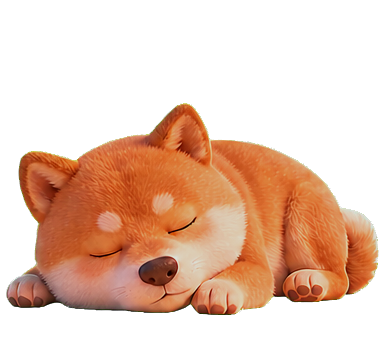
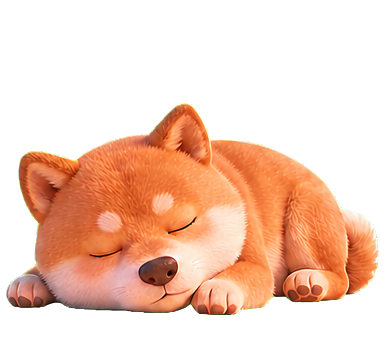
feat: pink hover outline, home window drag, restore sleep brightness
- Hover outline pink (#f28fb1)
- Home scene window: drag empty areas to reposition
- Sleep frames restored to pre-bake brightness (original colors)

diff --git a/petpet/home/window.py b/petpet/home/window.py
@@ -128,6 +128,7 @@ class HomeSceneWindow(QWidget):
         self._hover_button_prev = None
         self._pressed_button = None
         self._button_flash_until = 0.0
+        self._window_drag_offset = None
         self._last_pet_tick = time.monotonic()
         self._last_persisted_home_target = None
         self.setMouseTracking(True)
@@ -858,7 +859,7 @@ class HomeSceneWindow(QWidget):
             painter.setBrush(QColor(120, 72, 50, 120))
             painter.drawRoundedRect(draw_rect, 14, 14)
         elif state == "hover":
-            painter.setPen(QPen(QColor("#5f3a2a"), 2))
+            painter.setPen(QPen(QColor("#f28fb1"), 2))
             painter.setBrush(QColor(255, 252, 246, 90))
             painter.drawRoundedRect(draw_rect.adjusted(1, 1, -1, -1), 14, 14)
         if label:
@@ -2177,6 +2178,10 @@ class HomeSceneWindow(QWidget):
         if not self.is_decorating():
             if self.command_home_pet(event.pos()):
                 event.accept()
+                return
+            # 空白处按住可拖动整个小屋窗口
+            self._window_drag_offset = event.globalPos() - self.frameGeometry().topLeft()
+            event.accept()
             return
         if not self.begin_furniture_gesture(event.pos()):
             event.accept()
@@ -2189,6 +2194,9 @@ class HomeSceneWindow(QWidget):
         if key != self._hover_button:
             self._hover_button = key
             self.update()
+        if self._window_drag_offset is not None:
+            self.move(event.globalPos() - self._window_drag_offset)
+            return
         if self._editing_gesture is None:
             return
         self.update_furniture_gesture(event.pos())
@@ -2200,6 +2208,10 @@ class HomeSceneWindow(QWidget):
         super().leaveEvent(event)
 
     def mouseReleaseEvent(self, event):
+        if self._window_drag_offset is not None:
+            self._window_drag_offset = None
+            event.accept()
+            return
         if self._pressed_button is not None:
             self._pressed_button = None
             self.update()
